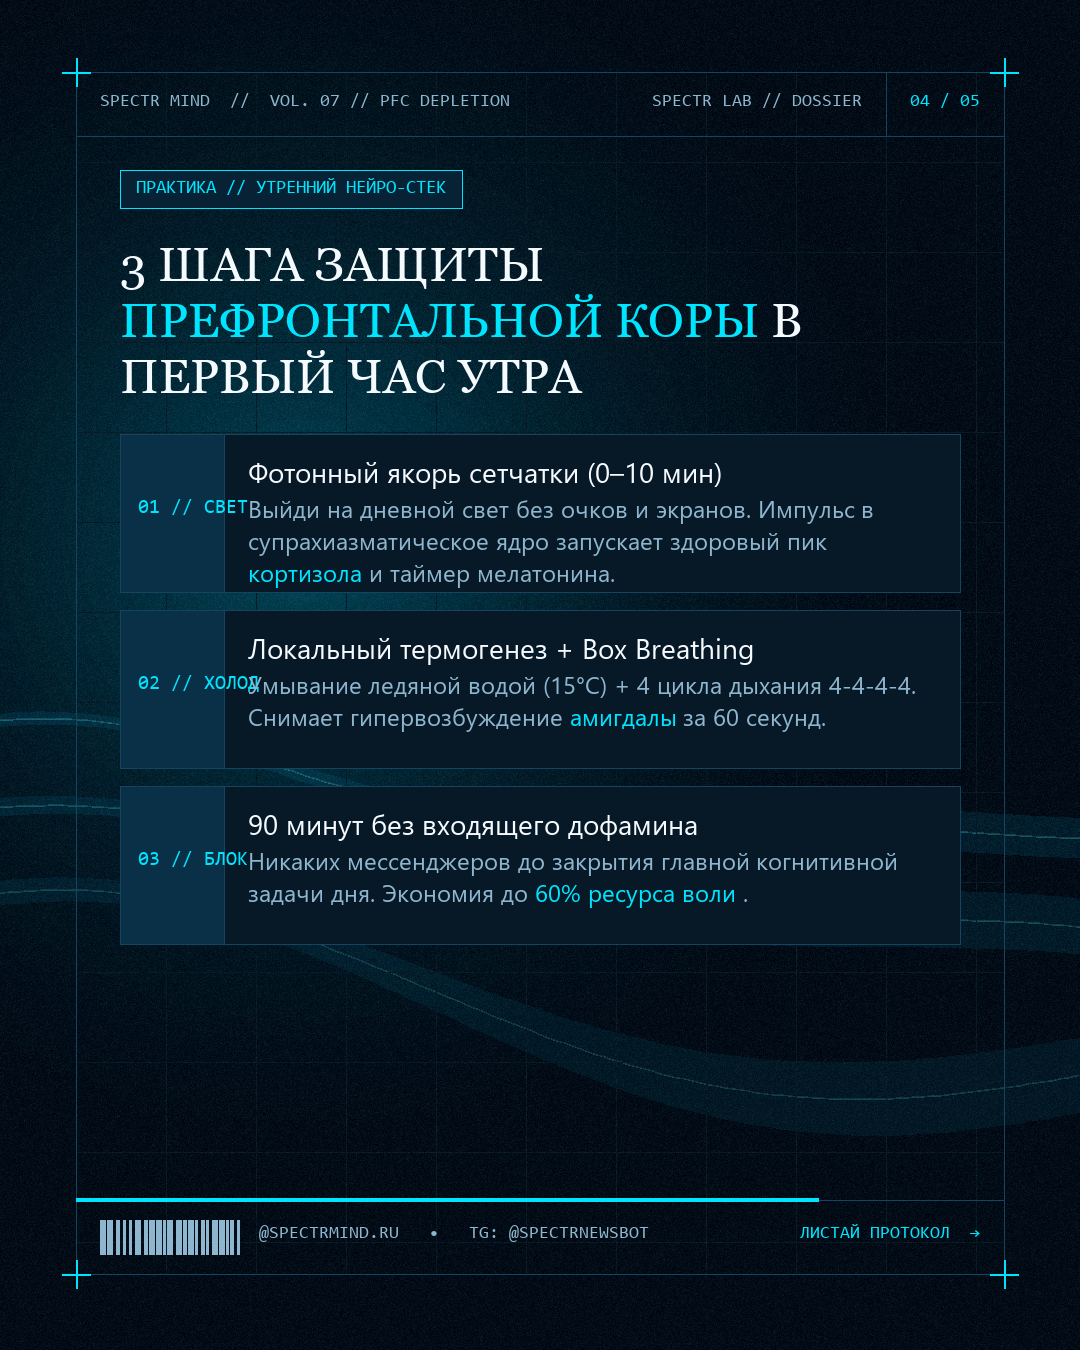
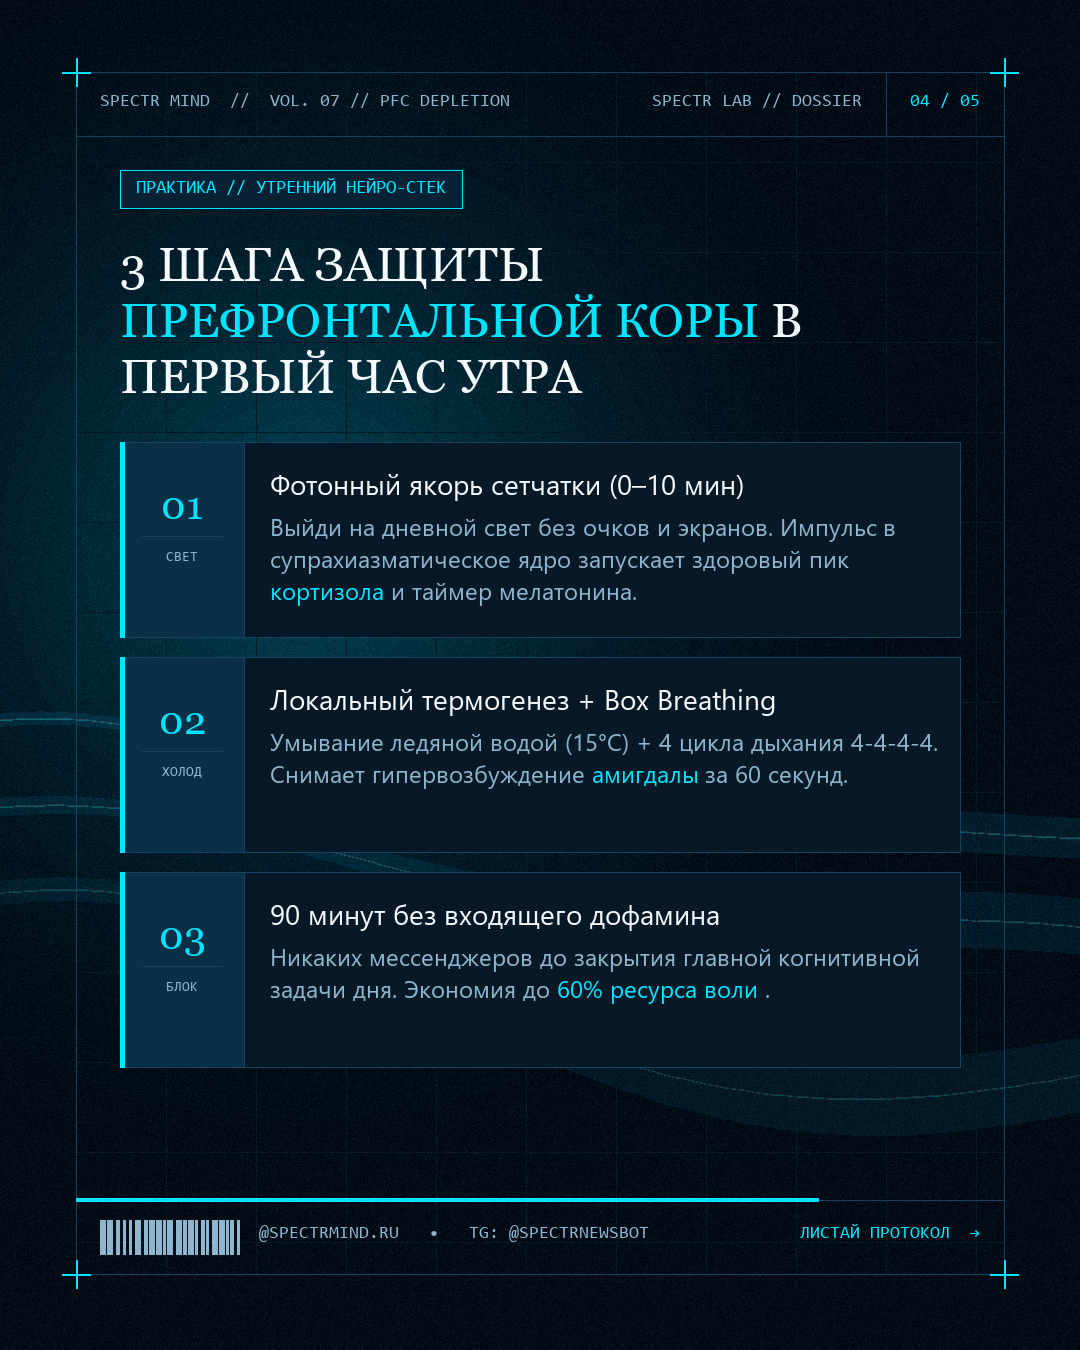
fix(carousel): resolve step cards overlap on protocol slide with stacked badge layout

Changed region(s): [[0.0917, 0.3111, 0.8556, 0.8089]]

diff --git a/carousel_tool/spectr_carousel_generator.py b/carousel_tool/spectr_carousel_generator.py
@@ -685,47 +685,82 @@ class SpectrCarouselGenerator:
                 default_color=p["text_main"],
                 accent_color=p["accent"],
             )
-            top_y += 16
+            top_y += 24
 
             steps = slide.get("steps", [])
-            f_step_num = self._font("mono", 20)
+            f_step_num = self._font("primary", 40)
+            f_step_tag = self._font("mono", 14)
             f_step_title = self._font("secondary", 28)
             f_step_desc = self._font("secondary", 24)
 
+            avail_h = (self.HEIGHT - self.MARGIN_BOTTOM - 90) - top_y
+            num_steps = len(steps) if steps else 1
+            gap = 20
+            card_h = min(195, max(170, (avail_h - (num_steps - 1) * gap) // num_steps))
+            idx_w = 124
+
             for s_idx, step in enumerate(steps):
                 box_top = top_y
-                card_h = 158
+                # Фоновая карточка
                 draw.rectangle(
                     [inner_x, box_top, inner_x + inner_w, box_top + card_h],
                     fill=p["bg_Card"],
                     outline=p["border"],
                     width=1,
                 )
-                idx_w = 104
+                # Левая плашка под номер и тег
                 draw.rectangle(
                     [inner_x, box_top, inner_x + idx_w, box_top + card_h],
                     fill=p["accent_bg"],
                     outline=p["border"],
                     width=1,
                 )
-                num_str = step.get("code", f"0{s_idx + 1}")
-                draw.text((inner_x + 18, box_top + 64), num_str, font=f_step_num, fill=p["accent"])
+                # Вертикальная неоновая полоса на левом краю карточки
+                draw.rectangle(
+                    [inner_x, box_top, inner_x + 4, box_top + card_h],
+                    fill=p["accent"],
+                )
 
-                tx = inner_x + idx_w + 24
-                tw = inner_w - idx_w - 40
-                draw.text((tx, box_top + 18), step.get("heading", ""), font=f_step_title, fill=p["text_main"])
+                # Разбор кода шага (напр. "01 // СВЕТ" -> номер "01" и тег "СВЕТ")
+                raw_code = str(step.get("code", f"0{s_idx + 1}")).strip()
+                if "//" in raw_code:
+                    parts = raw_code.split("//", 1)
+                    num_str = parts[0].strip()
+                    tag_str = parts[1].strip().upper()
+                elif " " in raw_code and any(ch.isdigit() for ch in raw_code.split(" ")[0]):
+                    parts = raw_code.split(" ", 1)
+                    num_str = parts[0].strip()
+                    tag_str = parts[1].strip().upper()
+                else:
+                    num_str = f"{s_idx + 1:02d}"
+                    tag_str = raw_code.upper() if raw_code else f"ШАГ {s_idx + 1}"
+
+                # Центрируем номер и тег в левой плашке
+                sidebar_cx = inner_x + idx_w / 2.0
+                nw = draw.textlength(num_str, font=f_step_num)
+                draw.text((sidebar_cx - nw / 2.0, box_top + 40), num_str, font=f_step_num, fill=p["accent"])
+
+                if tag_str:
+                    draw.line([(inner_x + 22, box_top + 94), (inner_x + idx_w - 22, box_top + 94)], fill=p["border"], width=1)
+                    tw = draw.textlength(tag_str, font=f_step_tag)
+                    draw.text((sidebar_cx - tw / 2.0, box_top + 108), tag_str, font=f_step_tag, fill=p["text_muted"])
+
+                # Контент справа от плашки — никогда не пересекается
+                tx = inner_x + idx_w + 26
+                tw_content = inner_w - idx_w - 46
+                draw.text((tx, box_top + 22), step.get("heading", ""), font=f_step_title, fill=p["text_main"])
                 self._draw_rich_paragraph(
                     draw,
                     step.get("text", ""),
                     x=tx,
-                    y=box_top + 58,
-                    max_width=tw,
+                    y=box_top + 68,
+                    max_width=tw_content,
                     font=f_step_desc,
                     line_height=32,
                     default_color=p["text_muted"],
                     accent_color=p["accent"],
                 )
-                top_y += card_h + 18
+                top_y += card_h + gap
 
         elif slide_type == "cta":
             f_title = self._font("primary", slide.get("title_size", 54))
